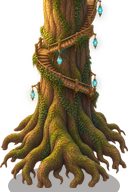
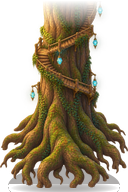
Passe de qualité (affichage) : arrivée à Gardebois, intérieurs centrés, défaite, téléphone
Héros visible à l'arrivée ; petites pièces centrées à l'écran ; message de défaite affiché
après le retour ; menu pause qui tient dans son cadre ; commerce et boutons de combat plus
lisibles au doigt ; noms du Triumvirat séparés ; message de création effacé à la saisie ;
messages du commerce neutres ; tronc-titan fondu en haut, ombre adoucie.

Claude-Session: https://claude.ai/code/session_01SqW3qFHixh5S4ufZhtH5kU

Changed region(s): [[0.3125, 0.0, 0.8125, 0.1562], [0.5938, 0.9375, 0.9375, 1.0], [0.0625, 0.9375, 0.4062, 1.0]]

diff --git a/src/scenes/TradeScene.ts b/src/scenes/TradeScene.ts
@@ -15,7 +15,7 @@ const MARGIN = 60;
 /** Finger-sized on touch screens, compact with a mouse: the panel then starts right under the slim HUD bar. */
 const LAYOUT = HAS_MOUSE
   ? { panelTop: 60, titleY: 72, titleSize: 26, closeY: 92, closeWidth: 180, closeHeight: 44, closeFont: 20, statsY: 124, messageRight: GAME_WIDTH - MARGIN, rowTop: 162, rowHeight: 52, rowFont: 19, buttonWidth: 130, buttonHeight: 38, buttonFont: 17 }
-  : { panelTop: 100, titleY: 124, titleSize: 28, closeY: 130, closeWidth: 220, closeHeight: 64, closeFont: 24, statsY: 160, messageRight: GAME_WIDTH - 260, rowTop: 198, rowHeight: 60, rowFont: 20, buttonWidth: 150, buttonHeight: 48, buttonFont: 18 };
+  : { panelTop: 100, titleY: 122, titleSize: 28, closeY: 130, closeWidth: 220, closeHeight: 64, closeFont: 24, statsY: 172, messageRight: GAME_WIDTH - 260, rowTop: 214, rowHeight: 68, rowFont: 22, buttonWidth: 160, buttonHeight: 56, buttonFont: 20 };
 
 const SLOT_NAMES: Record<Slot, string> = { mainDroite: 'main droite', mainGauche: 'main gauche', armure: 'porté' };
 
@@ -132,24 +132,24 @@ export class TradeScene extends Phaser.Scene {
       x -= L.buttonWidth + 10;
     };
 
-    if (item.healHp && owned > 0) addButton('Utiliser', () => this.act(() => useConsumable(this.character(), item.id, characterStats(this.character()).maxHp), `${item.name} utilisé.`));
+    if (item.healHp && owned > 0) addButton('Utiliser', () => this.act(() => useConsumable(this.character(), item.id, characterStats(this.character()).maxHp), `Tu utilises : ${item.name}.`));
     if (item.slot) {
       if (equippedIn) {
         addButton('Retirer', () =>
           this.act(() => {
             unequip(this.character(), equippedIn);
             return true;
-          }, `${item.name} retiré.`),
+          }, `Tu retires : ${item.name}.`),
         );
       }
-      else if (owned > 0) addButton('Équiper', () => this.act(() => this.equipBestSlot(item), `${item.name} équipé.`));
+      else if (owned > 0) addButton('Équiper', () => this.act(() => this.equipBestSlot(item), `Tu équipes : ${item.name}.`));
     }
     if (owned > 0 && !item.quest) {
       addButton(`Vendre (${sellPrice})`, () =>
         this.act(() => {
           const error = sell(this.character(), item.id, 1);
           return error ? null : true;
-        }, `${item.name} vendu.`),
+        }, `Tu vends : ${item.name}.`),
       );
     }
     if (this.npcId && merchantCatalogue(this.npcId).some((i) => i.id === item.id)) {
@@ -159,7 +159,7 @@ export class TradeScene extends Phaser.Scene {
           if (error === 'trop-cher') return this.fail('Pas assez de Fers.');
           if (error === 'trop-lourd') return this.fail('Trop lourd à porter.');
           return true;
-        }, `${item.name} acheté.`),
+        }, `Tu achètes : ${item.name}.`),
       );
     }
   }

diff --git a/src/scenes/MapScene.ts b/src/scenes/MapScene.ts
@@ -21,7 +21,7 @@ import {
 } from '../rules/world';
 import { findLocation, type GameState } from '../state/gameState';
 import { onKeys } from '../ui/keys';
-import { COLORS, CSS, FONT_SERIF } from '../ui/theme';
+import { COLORS, CSS, FONT_SERIF, GAME_HEIGHT, GAME_WIDTH } from '../ui/theme';
 import { MAP_ZOOM, RENDER_SCALE } from '../ui/viewport';
 import type { CombatStartData } from './CombatScene';
 import { FigurantLayer } from './Figurants';
@@ -120,7 +120,15 @@ export class MapScene extends Phaser.Scene {
 
     const worldWidth = (this.map.width + this.map.height) * (TILE_WIDTH / 2);
     const worldHeight = (this.map.width + this.map.height) * (TILE_HEIGHT / 2) + TOP_MARGIN;
-    this.cameras.main.setBounds(0, 0, worldWidth, worldHeight).setZoom(MAP_ZOOM * RENDER_SCALE).setBackgroundColor(COLORS.ink);
+    // A room smaller than the view is centred in it: the bounds grow around it (Phaser pins small worlds top-left).
+    const viewWidth = GAME_WIDTH / MAP_ZOOM;
+    const viewHeight = GAME_HEIGHT / MAP_ZOOM;
+    const boundsWidth = Math.max(worldWidth, viewWidth);
+    const boundsHeight = Math.max(worldHeight, viewHeight);
+    this.cameras.main
+      .setBounds((worldWidth - boundsWidth) / 2, (worldHeight - boundsHeight) / 2, boundsWidth, boundsHeight)
+      .setZoom(MAP_ZOOM * RENDER_SCALE)
+      .setBackgroundColor(COLORS.ink);
     this.cameras.main.startFollow(this.hero, true, 0.15, 0.15);
     this.cameras.main.centerOn(start.x, start.y);
 

diff --git a/src/scenes/CombatScene.ts b/src/scenes/CombatScene.ts
@@ -41,7 +41,7 @@ const TOP = 70;
 /** Finger-sized on touch screens, compact with a mouse (docs/gdd/interface.md). */
 const LAYOUT = HAS_MOUSE
   ? { arenaScale: 1.25, bottomBar: 96, buttonHeight: 48, buttonFont: 20, labelFont: 18, move: [100, 150], attack: [260, 150, 160], zone: [590, 170], endTurn: [770, 170], flee: [GAME_WIDTH - 90, 140] }
-  : { arenaScale: 1, bottomBar: 150, buttonHeight: 76, buttonFont: 26, labelFont: 22, move: [150, 200], attack: [370, 180, 190], zone: [760, 200], endTurn: [970, 220], flee: [GAME_WIDTH - 110, 180] };
+  : { arenaScale: 1, bottomBar: 150, buttonHeight: 76, buttonFont: 24, labelFont: 22, move: [130, 180], attack: [330, 170, 185], zone: [720, 190], endTurn: [935, 200], flee: [GAME_WIDTH - 120, 170] };
 const LOG_Y = GAME_HEIGHT - LAYOUT.bottomBar - 30;
 /** Turn order panel, left of the arena: names live here, not above the tokens where they overlapped. */
 const ROSTER_X = 24;
@@ -752,6 +752,8 @@ export class CombatScene extends Phaser.Scene {
     this.time.delayedCall(1400, () => {
       this.scene.stop();
       if (restart) {
+        const hud = this.scene.get('Hud') as HudScene;
+        hud.events.once(Phaser.Scenes.Events.CREATE, () => onHud(hud));
         this.scene.stop('Hud');
         this.scene.stop('Map');
         this.scene.start('Map');

diff --git a/src/scenes/CreationScene.ts b/src/scenes/CreationScene.ts
@@ -50,6 +50,7 @@ export class CreationScene extends Phaser.Scene {
   private step = 0;
   private focus?: string;
   private message?: string;
+  private messageText?: Phaser.GameObjects.Text;
   private resume?: GameState;
 
   constructor() {
@@ -101,8 +102,9 @@ export class CreationScene extends Phaser.Scene {
       width: last ? 330 : 230,
       height: 76,
     });
+    this.messageText = undefined;
     if (this.message) {
-      this.add
+      this.messageText = this.add
         .text(GAME_WIDTH / 2, FOOTER_Y, this.message, {
           fontFamily: FONT_SERIF,
           fontSize: '22px',
@@ -187,6 +189,12 @@ export class CreationScene extends Phaser.Scene {
     input.setAttribute('aria-label', 'Nom du personnage');
     input.addEventListener('input', () => {
       this.draft = { ...this.draft, name: input.value };
+      // « Donne un nom à ton personnage. » disappears as soon as a name is typed.
+      if (input.value.trim() && this.messageText) {
+        this.messageText.destroy();
+        this.messageText = undefined;
+        this.message = '';
+      }
     });
     input.addEventListener('keydown', (event) => {
       if (event.key === 'Enter') {

diff --git a/src/scenes/PauseScene.ts b/src/scenes/PauseScene.ts
@@ -10,8 +10,8 @@ import { HAS_MOUSE } from '../ui/viewport';
 
 /** Finger-sized on touch screens, compact with a mouse (docs/gdd/interface.md). */
 const LAYOUT = HAS_MOUSE
-  ? { panel: 400, titleY: -140, titleSize: 30, firstY: -66, step: 64, buttonWidth: 300, buttonHeight: 52, buttonFont: 22 }
-  : { panel: 520, titleY: -200, titleSize: 36, firstY: -100, step: 96, buttonWidth: 380, buttonHeight: 80, buttonFont: 26 };
+  ? { panel: 440, titleY: -170, titleSize: 30, firstY: -100, step: 62, buttonWidth: 300, buttonHeight: 52, buttonFont: 22 }
+  : { panel: 620, titleY: -260, titleSize: 36, firstY: -180, step: 96, buttonWidth: 380, buttonHeight: 80, buttonFont: 26 };
 
 /** Opened from the HUD's Menu button; the map stays frozen underneath until « Reprendre ». */
 export class PauseScene extends Phaser.Scene {

diff --git a/docs/archive/journal-2026-11.md b/docs/archive/journal-2026-11.md
@@ -756,3 +756,20 @@ Le passage au jalon suivant attend le feu vert de Cyril (`CLAUDE.md` §4).
 - Cyril : « Oui pour tout, mets en ligne, Codex sur Sept-Portes, n'oublie pas la mise en ligne des infos sur Notion
   aussi ». Détails validés ; `AGENTS.md` donne Sept-Portes à Codex ; `main` avancé, déploiement lancé. Notion : on n'y
   modifie aucune page existante, on publie les éléments validés dans une page dédiée (`CLAUDE.md`, `sources.md`).
+
+## 2026-11-02 (suite) : passe de qualité
+
+- Cyril : « test le tout pour vérifier la qualité ». Trois audits en parallèle (données et textes ; économie et
+  progression, avec 20 000 combats simulés par cas ; tour visuel de 29 lieux sur PC et téléphone, sauvegarde,
+  commerce, carte du monde, combat). Aucun blocage de progression, aucune erreur console.
+- Corrigé : XP infinie à l'Écho du dernier train ; option à jet dont l'effet s'appliquait même raté (mensonge à
+  l'huissier) ; accueil de Boulon jamais vu ; sacoche de la caravane impossible à remettre à Véline pendant une
+  descente ; lettre d'Ilyane restée à vie ; lettres de Malo ramassables à l'infini ; laissez-passer de Tobias
+  invendable ; effets de zone effacés avant le tour de la cible ; PV perdus oubliés après une victoire ; défaite
+  ramenée à Gardebois depuis Ironheart, sans message ; combats imposés après un jet raté ; Golem imbattable au niveau
+  prévu (0 à 1 %) ; XP du chapitre 1 (70) et du chapitre 3 ; Garrik vaincu sans XP ; textes non neutres pour le héros
+  (une quinzaine), formulations adoucies, coquilles ; héros caché à l'arrivée à Gardebois ; intérieurs collés en haut
+  à gauche ; noms de l'amphithéâtre ; menu pause ; commerce et boutons de combat sur téléphone ; tronc-titan coupé net ;
+  quatre PNJ sans visage. 367 tests ; vérifié sur PC et téléphone.
+- Reste (à proposer à Cyril) : lisibilité générale sur téléphone (plateau de combat, petits textes, création) ; trop
+  d'argent à Ironheart ; adhésion aux trois factions de Ferros.

diff --git a/docs/JOURNAL.md b/docs/JOURNAL.md
@@ -3,7 +3,7 @@
 ## État (2026-11-02)
 
 - Jalons 1 et 2 faits et en ligne (`docs/gdd/jalon-2.md`). 11,5 crédits Higgsfield restants.
-- 364 tests, typecheck et build au vert. En ligne : https://csaintecluque-ui.github.io/anamnesis-rpg/
+- 367 tests, typecheck et build au vert. En ligne : https://csaintecluque-ui.github.io/anamnesis-rpg/
 - Mode test caché : 5 touches sur la version (écran titre) → +50 Fers, PV au max dans le menu pause.
 
 ## Fait et en ligne (2026-11-02, validé par Cyril)
@@ -20,7 +20,8 @@
 
 ## Prochaine étape
 
-1. Codex : Sept-Portes (chapitre 4, `AGENTS.md`). Claude : à demander à Cyril. Notion : page « Anamnesis — le jeu ».
+1. Passe de qualité faite sur la branche (bugs, équilibrage, textes, affichage) : mise en ligne à valider par Cyril.
+2. Codex : Sept-Portes (`AGENTS.md`). Notion : page « Anamnesis — le jeu », à tenir à jour à chaque mise en ligne.
 
 ## Points ouverts
 
